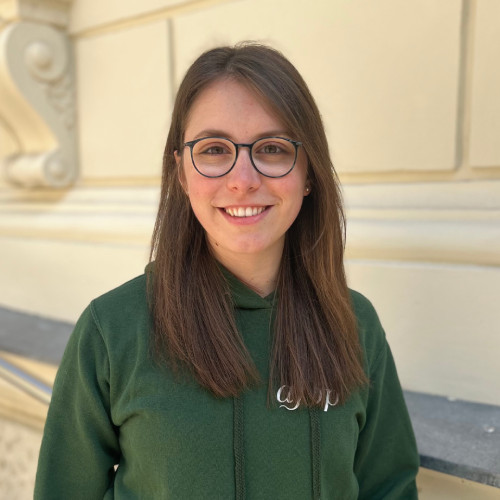
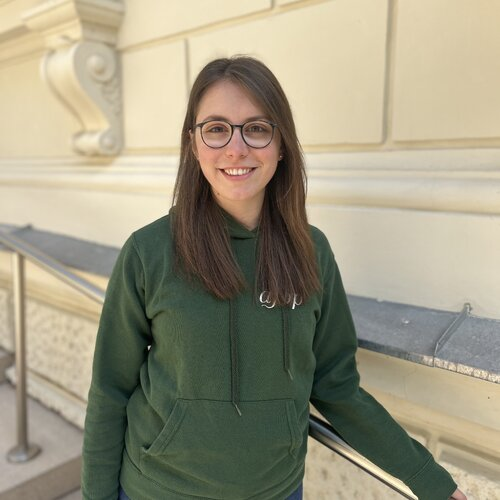
Add more team members

diff --git a/layouts/_shortcodes/team.html b/layouts/_shortcodes/team.html
@@ -1,11 +1,16 @@
 <div class="team">
   {{ range site.Data.team.team }}
+    {{ $member := . }}
     <div class="member">
       <div class="member-photo">
         <img src="{{ .photo }}" alt="{{ .name }}">
       </div>
       <h3>{{ .name }}</h3>
-      <p>{{ .position }} ({{ .place }})</p>
+      {{ with .position }}
+        <p>{{ . }}{{ with $member.place }} ({{ . }}){{ end }}</p>
+      {{ else with .place }}
+        <p>{{ . }}</p>
+      {{ end }}
     </div>
   {{ end }}
 </div>
